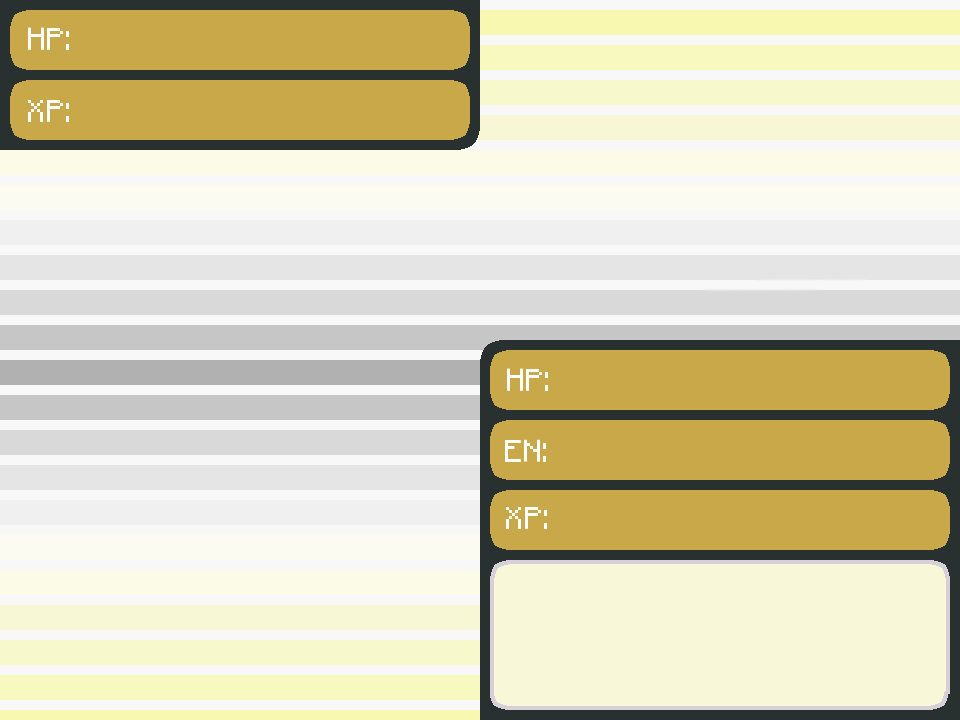
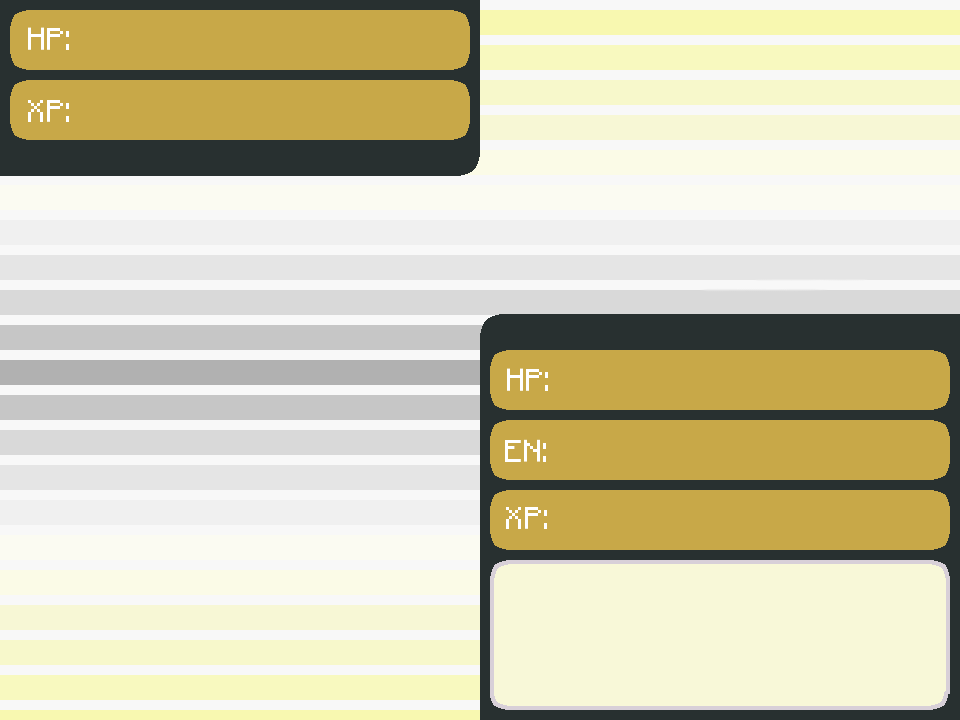
Adding in player and enemy name labels

Changed region(s): [[0.5, 0.4278, 1.0, 0.4889], [0.0, 0.1833, 0.5, 0.2444]]

diff --git a/src/duel/duel_controller.py b/src/duel/duel_controller.py
@@ -85,6 +85,9 @@ class DuelController:
         self.attack_main_label = None
         self.attack_alt_label = None
 
+        self.player_name_label = None
+        self.enemy_name_label = None
+
         self.winner_label = None
 
         self.text = [
